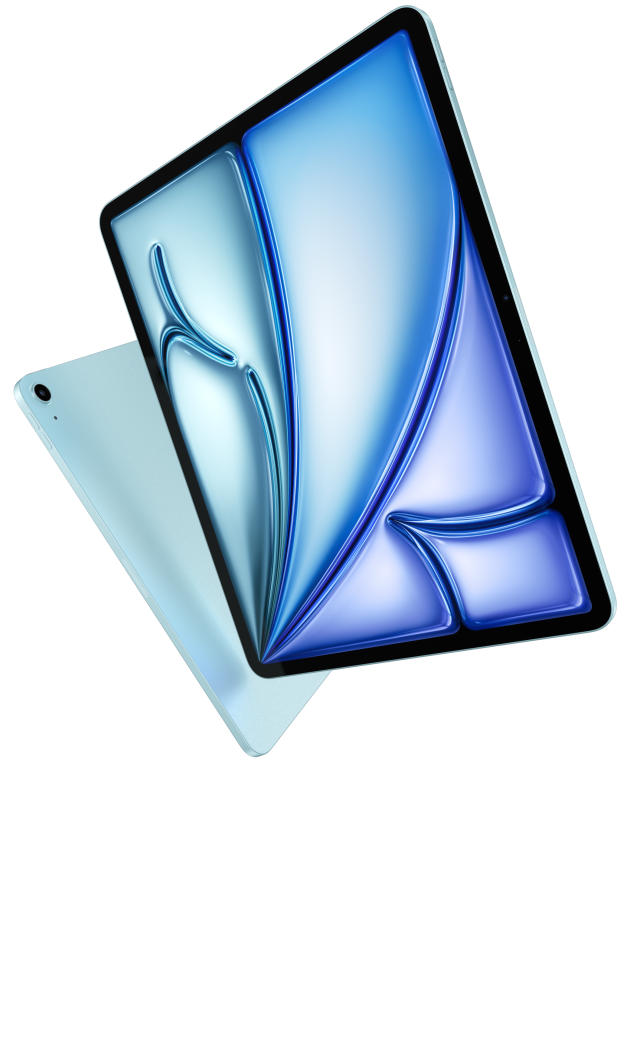
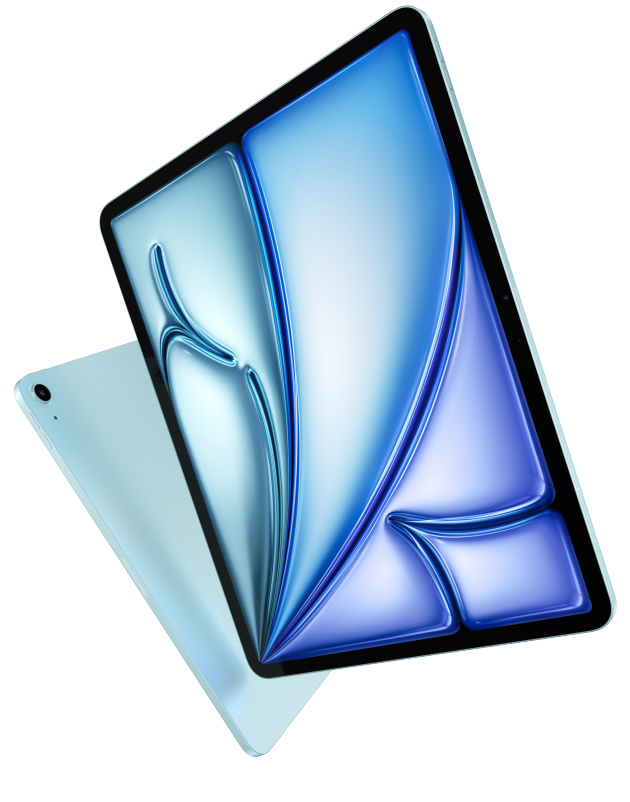
second commit index

diff --git a/src/components/Inicio.tsx b/src/components/Inicio.tsx
@@ -19,13 +19,13 @@ const Inicio = () => {
                 <img src={imagenIphone16} alt="Iphone 16" className=" size-auto" />
                 </div>
                 <div className="bg-gradient-to-b from-green-200 to-slate-50">
-                <img src={imagenIpadAir} alt="Ipad Air" className="size-auto" />
+                <img src={imagenIpadAir} alt="Ipad Air" className="size-auto mt-28" />
                 </div>
                 <div className=" bg-gradient-to-b from-zinc-950 to-zinc-800 ">
-                <img src={imagenAppleWatch} alt="Apple Watch" className="size-auto" />
+                <img src={imagenAppleWatch} alt="Apple Watch" className="size-auto mt-20 mb-10" />
                 </div>
                 <div className="bg-black">
-                <img src={imagenAirPods} alt="AirPods" className="size-auto" />
+                <img src={imagenAirPods} alt="AirPods" className="size-auto mt-20" />
                 <img src={imagenAirPods2} alt="AirPods" className="size-auto" />
                 </div>
             </section>

diff --git a/src/index.css b/src/index.css
@@ -2,7 +2,3 @@
 @tailwind components;
 @tailwind utilities;
 @import url("https://cdn.jsdelivr.net/npm/bootstrap-icons@1.11.3/font/bootstrap-icons.min.css");
-body {
-  margin: 0;
-  padding: 0;
-}
